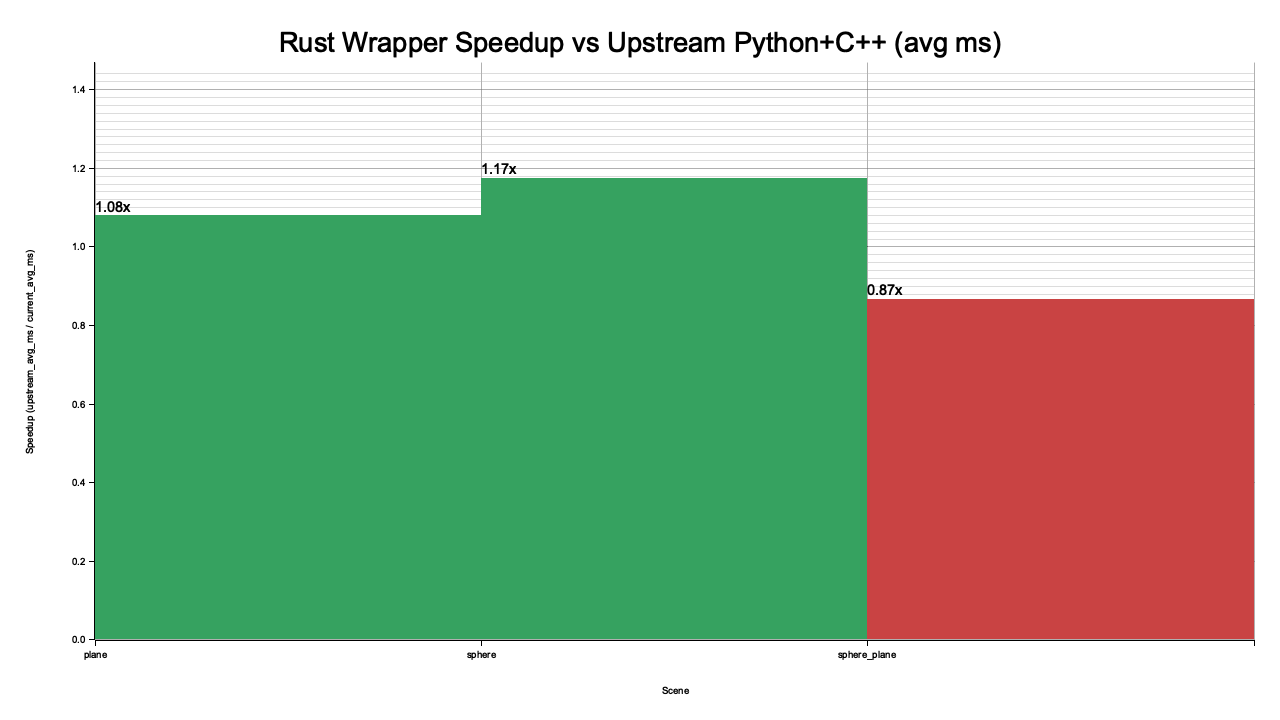
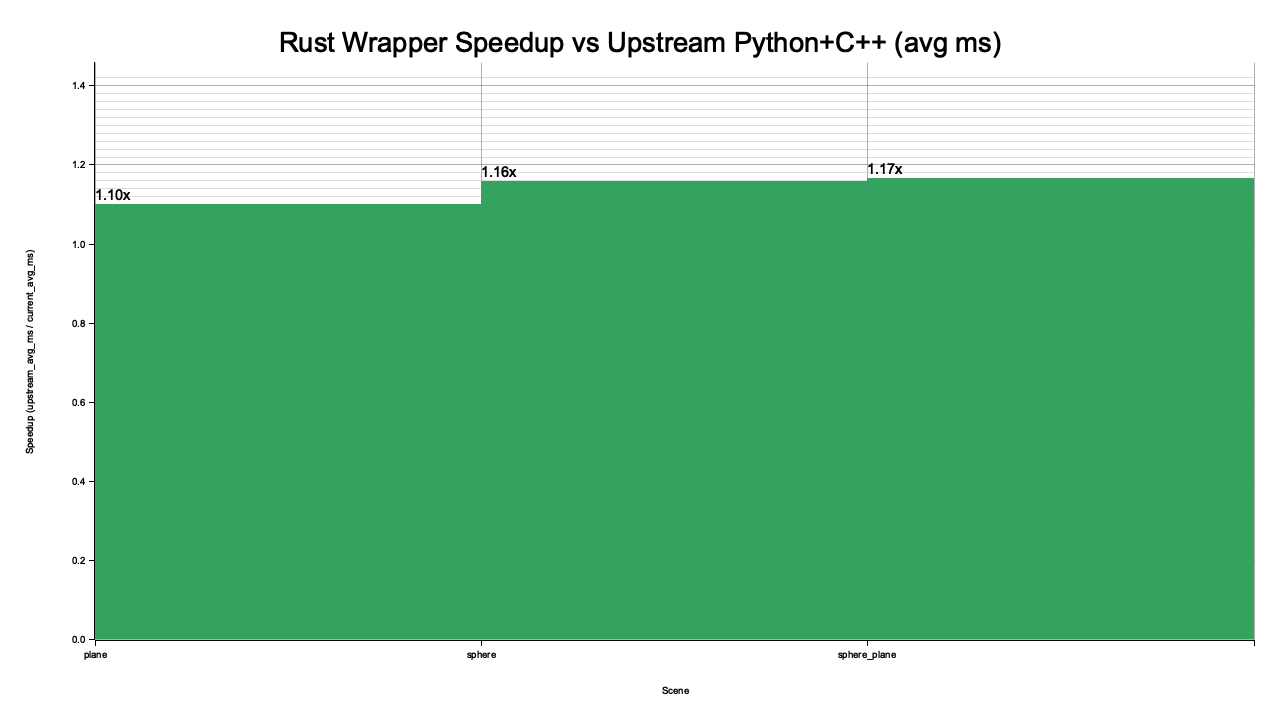
Fix parity benchmark bootstrap and scene fairness

Changed region(s): [[0.0625, 0.0917, 1.0, 0.8861]]

diff --git a/benchmarks/bench_api_parity_upstream.py b/benchmarks/bench_api_parity_upstream.py
@@ -87,6 +87,36 @@ def ensure_python_deps(repo_path: Path, python_exe: str, packages: list[str]) ->
     return pip_attempt
 
 
+def ensure_rust_extension(repo_path: Path, python_exe: str) -> CmdResult:
+    import_check = run_cmd(
+        [python_exe, "-c", "import ocmesher_rust"],
+        cwd=repo_path,
+    )
+    if import_check.code == 0:
+        return CmdResult(0, "ocmesher_rust already available", "")
+
+    manifest = repo_path / "ocmesher-rust" / "crates" / "ocmesher-py" / "Cargo.toml"
+    if not manifest.exists():
+        return CmdResult(1, "", f"missing manifest: {manifest}")
+
+    maturin = shutil.which("maturin")
+    if maturin:
+        return run_cmd([maturin, "develop", "--release", "--manifest-path", str(manifest)], cwd=repo_path)
+
+    uv_bin = shutil.which("uv")
+    if uv_bin:
+        return run_cmd(
+            [uv_bin, "run", "maturin", "develop", "--release", "--manifest-path", str(manifest)],
+            cwd=repo_path,
+        )
+
+    return CmdResult(
+        1,
+        "",
+        "neither maturin nor uv found in PATH; cannot build ocmesher_rust for parity benchmark",
+    )
+
+
 API_SNAPSHOT_SCRIPT = r'''
 import inspect, json
 
@@ -242,8 +272,8 @@ try:
         "rust_wrapper_sphere_plane": [scene_sphere, scene_plane],
     }
 
-    mesher = make_rust_ocmesher(cameras, bounds, pixels_per_cube=32, coarse_count=100_000)
     for name, sdfs in scenes.items():
+        mesher = make_rust_ocmesher(cameras, bounds, pixels_per_cube=32, coarse_count=100_000)
         meshes, tags = mesher(sdfs)
         for _ in range(WARMUPS):
             mesher(sdfs)
@@ -390,6 +420,11 @@ def main() -> None:
     bootstrap["current"] = {
         "returncode": bootstrap_current.code,
         "stderr": bootstrap_current.stderr.strip(),
+    }
+    rust_ext_current = ensure_rust_extension(repo_root, args.python)
+    bootstrap["current_rust_extension"] = {
+        "returncode": rust_ext_current.code,
+        "stderr": rust_ext_current.stderr.strip(),
     }
     current_snapshot = gather_repo_snapshot(repo_root, args.python)
 
